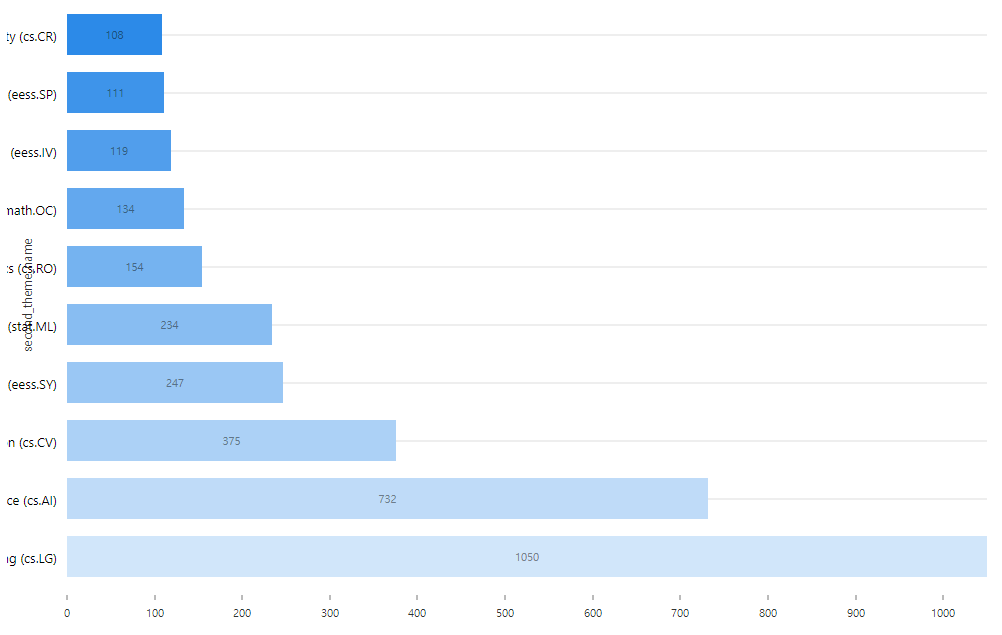
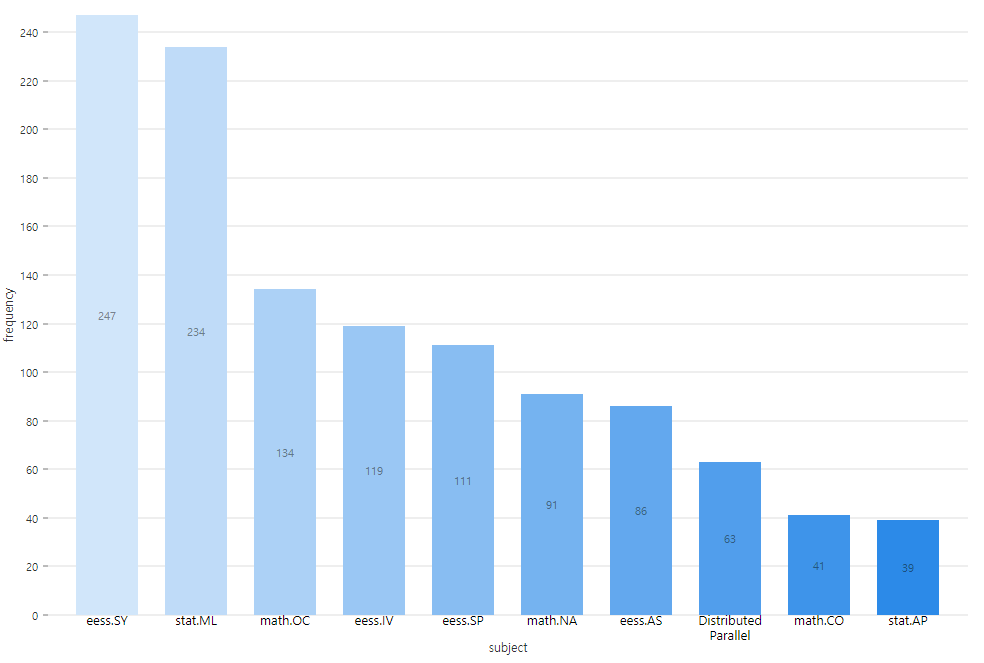
chore: image change

diff --git a/server/paperflow-functions-v1/paperflowServer/newsletter/template/paperflow.html b/server/paperflow-functions-v1/paperflowServer/newsletter/template/paperflow.html
@@ -293,9 +293,9 @@
 <!--[if mso]><table width="100%" cellpadding="0" cellspacing="0" border="0"><tr><td style="padding-right: 20px; padding-left: 20px; padding-top: 20px; padding-bottom: 20px; font-family: Arial, sans-serif"><![endif]-->
 <div style="color:#555555;font-family:'Open Sans', 'Helvetica Neue', Helvetica, Arial, sans-serif;line-height:1.5;padding-top:20px;padding-right:20px;padding-bottom:20px;padding-left:20px;">
 <div class="txtTinyMce-wrapper" style="font-size: 12px; line-height: 1.5; color: #555555; font-family: 'Open Sans', 'Helvetica Neue', Helvetica, Arial, sans-serif; mso-line-height-alt: 18px;">
-<p style="margin: 0; line-height: 1.5; word-break: break-word; font-size: 20px; mso-line-height-alt: 30px; margin-top: 0; margin-bottom: 0;"><span style="font-size: 20px;">1.  ~~~~</span></p>
-<p style="margin: 0; line-height: 1.5; word-break: break-word; font-size: 20px; mso-line-height-alt: 30px; margin-top: 0; margin-bottom: 0;"><span style="font-size: 20px;">2.  ~~~~</span></p>
-<p style="margin: 0; line-height: 1.5; word-break: break-word; font-size: 20px; mso-line-height-alt: 30px; margin-top: 0; margin-bottom: 0;"><span style="font-size: 20px;">3.  ~~~~</span></p>
+<p style="margin: 0; line-height: 1.5; word-break: break-word; font-size: 20px; mso-line-height-alt: 30px; margin-top: 0; margin-bottom: 0;"><span style="font-size: 16px;">1.  Learning Transferable Visual Models From Natural Language Supervision</span></p>
+<p style="margin: 0; line-height: 1.5; word-break: break-word; font-size: 20px; mso-line-height-alt: 30px; margin-top: 0; margin-bottom: 0;"><span style="font-size: 16px;">2.  On cumulative residual (past) inaccuracy for truncated random variables</span></p>
+<p style="margin: 0; line-height: 1.5; word-break: break-word; font-size: 20px; mso-line-height-alt: 30px; margin-top: 0; margin-bottom: 0;"><span style="font-size: 16px;">3.  Pushing the Limits of Capsule Networks</span></p>
 </div>
 </div>
 <!--[if mso]></td></tr></table><![endif]-->
@@ -429,7 +429,7 @@
 <!--[if mso]><table width="100%" cellpadding="0" cellspacing="0" border="0"><tr><td style="padding-right: 10px; padding-left: 10px; padding-top: 10px; padding-bottom: 10px; font-family: Arial, sans-serif"><![endif]-->
 <div style="color:#393d47;font-family:Open Sans, Helvetica Neue, Helvetica, Arial, sans-serif;line-height:1.2;padding-top:10px;padding-right:10px;padding-bottom:10px;padding-left:10px;">
 <div class="txtTinyMce-wrapper" style="line-height: 1.2; font-size: 12px; color: #393d47; font-family: Open Sans, Helvetica Neue, Helvetica, Arial, sans-serif; mso-line-height-alt: 14px;">
-<p style="margin: 0; font-size: 14px; line-height: 1.2; word-break: break-word; text-align: center; mso-line-height-alt: 17px; margin-top: 0; margin-bottom: 0;"><strong><span style="font-size: 24px;">논문들의 주된 연구 분야 분포</span></strong></p>
+<p style="margin: 0; font-size: 14px; line-height: 1.2; word-break: break-word; text-align: center; mso-line-height-alt: 17px; margin-top: 0; margin-bottom: 0;"><strong><span style="font-size: 24px;">논문들의 주된 연구 분야</span></strong></p>
 </div>
 </div>
 <!--[if mso]></td></tr></table><![endif]-->
@@ -488,7 +488,7 @@
 <!--[if mso]><table width="100%" cellpadding="0" cellspacing="0" border="0"><tr><td style="padding-right: 10px; padding-left: 10px; padding-top: 10px; padding-bottom: 10px; font-family: Arial, sans-serif"><![endif]-->
 <div style="color:#393d47;font-family:Open Sans, Helvetica Neue, Helvetica, Arial, sans-serif;line-height:1.2;padding-top:10px;padding-right:10px;padding-bottom:10px;padding-left:10px;">
 <div class="txtTinyMce-wrapper" style="line-height: 1.2; font-size: 12px; color: #393d47; font-family: Open Sans, Helvetica Neue, Helvetica, Arial, sans-serif; mso-line-height-alt: 14px;">
-<p style="margin: 0; font-size: 14px; line-height: 1.2; word-break: break-word; text-align: center; mso-line-height-alt: 17px; margin-top: 0; margin-bottom: 0;"><strong><span style="font-size: 24px;">논문들의 부차적인 연구 분야 분포</span></strong></p>
+<p style="margin: 0; font-size: 14px; line-height: 1.2; word-break: break-word; text-align: center; mso-line-height-alt: 17px; margin-top: 0; margin-bottom: 0;"><strong><span style="font-size: 24px;">CS와 같이 연구된 분야</span></strong></p>
 </div>
 </div>
 <!--[if mso]></td></tr></table><![endif]-->
@@ -519,7 +519,7 @@
 <!--[if mso]><table width="100%" cellpadding="0" cellspacing="0" border="0"><tr><td style="padding-right: 10px; padding-left: 10px; padding-top: 10px; padding-bottom: 10px; font-family: Arial, sans-serif"><![endif]-->
 <div style="color:#393d47;font-family:Open Sans, Helvetica Neue, Helvetica, Arial, sans-serif;line-height:1.2;padding-top:10px;padding-right:10px;padding-bottom:10px;padding-left:10px;">
 <div class="txtTinyMce-wrapper" style="line-height: 1.2; font-size: 12px; color: #393d47; font-family: Open Sans, Helvetica Neue, Helvetica, Arial, sans-serif; mso-line-height-alt: 14px;">
-<p style="margin: 0; font-size: 20px; line-height: 1.2; word-break: break-word; text-align: center; mso-line-height-alt: 24px; margin-top: 0; margin-bottom: 0;"><span style="font-size: 20px;">Machine Learning 분야를 부차적으로 연구한 논문이 1050개로 가장 많이 투고되었습니다.</span></p>
+<p style="margin: 0; font-size: 20px; line-height: 1.2; word-break: break-word; text-align: center; mso-line-height-alt: 24px; margin-top: 0; margin-bottom: 0;"><span style="font-size: 20px;">Systems and Control (eess.SY) 분야가 247편으로 cs 분야에서 부가적으로 연구되었습니다.</span></p>
 </div>
 </div>
 <!--[if mso]></td></tr></table><![endif]-->
